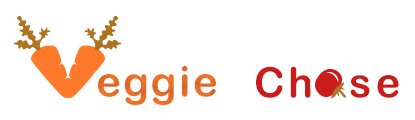
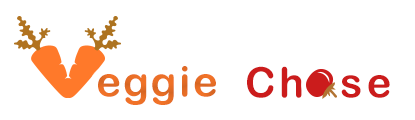
make changes to assets

Changed region(s): [[0.5783, 0.55, 0.9831, 0.825]]

diff --git a/_css/author.css b/_css/author.css
@@ -17,7 +17,7 @@ header {
 	position: absolute;
 	left:100px;
 	right:0;
-	top:83px;
+	top:90px;
 }
 
 header img {
@@ -28,7 +28,25 @@ header img {
 
 
 #shrub01 {
+	position: fixed;
+/*	margin-top:797px;*/
+	z-index: 200;
+	top:350px;
 
-	margin-top:797px;
+}
+
+#tree01 {
+	position: fixed;
+    left: 35px;
+    top: 178px;
+    z-index: 100;
+
+}
+
+#tree02 {
+	position: fixed;
+    left: 477px;
+    top: 178px;
+    z-index: 90;
 
 }
